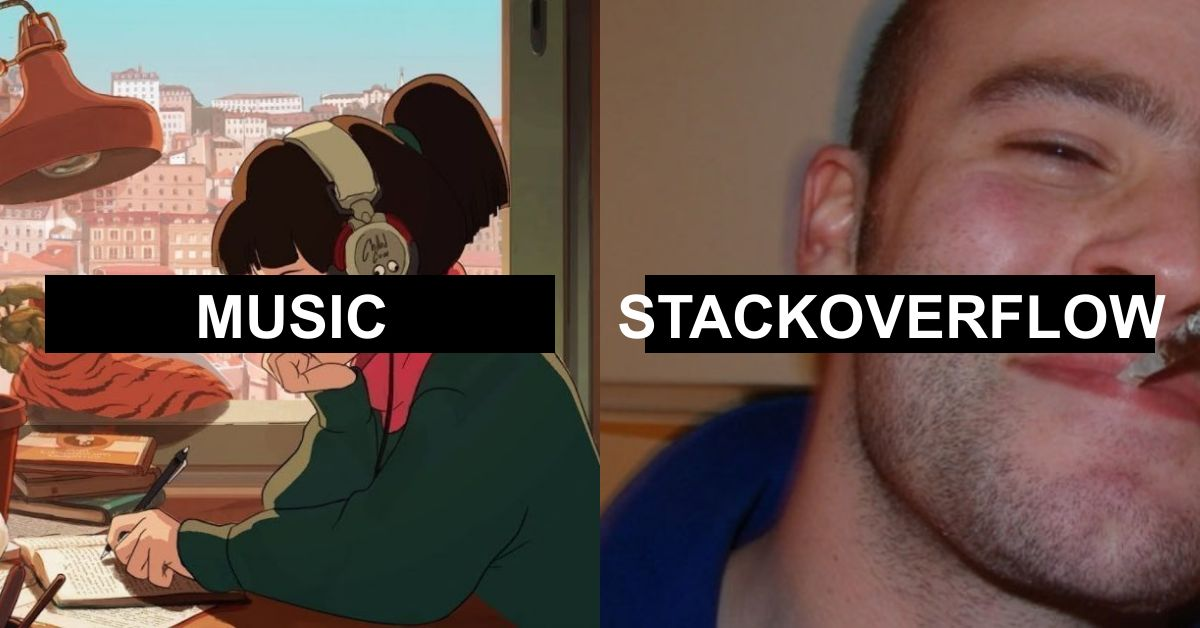
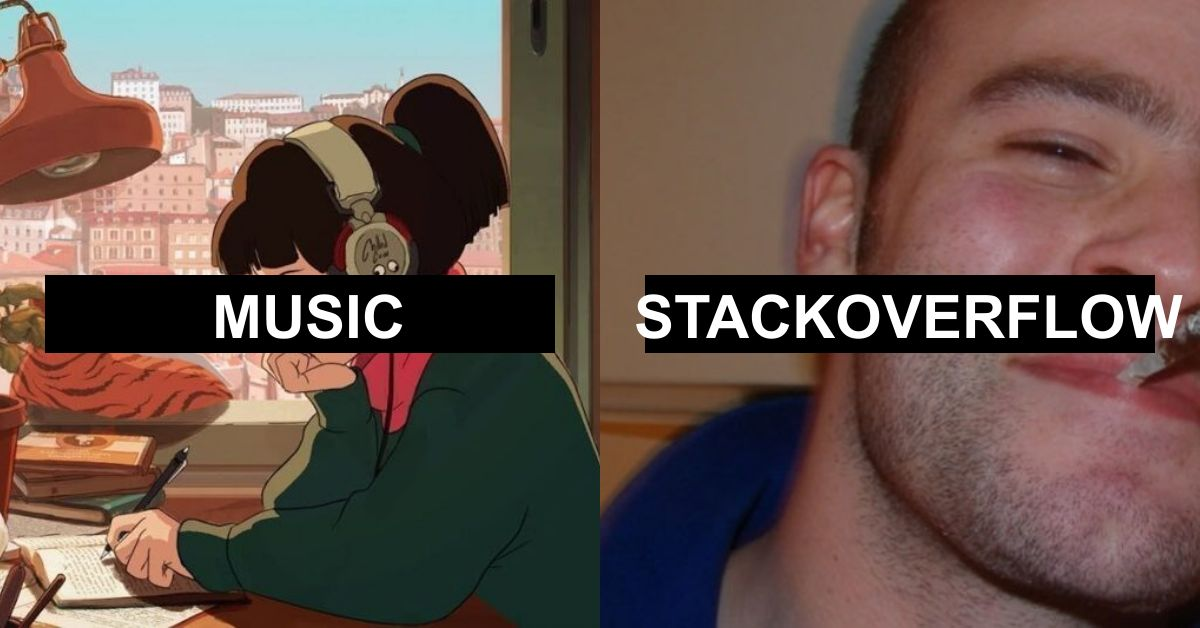
fix(preview-generator): simplified and typed code (+ small fixes)

Changed region(s): [[0.4933, 0.4538, 0.9867, 0.5446], [0.1542, 0.4538, 0.3392, 0.5446]]

diff --git a/preview-generator.ts b/preview-generator.ts
@@ -1,17 +1,18 @@
 import { Canvas, Image, loadImage } from 'canvas'
 import { createTextWithBackground, drawImageProp } from './generator-preview-utils/utils'
-import * as fs from 'fs'
 import { questions } from './apps/devchoices-next/public/assets/data/questions'
+import { Choice, QuestionInterface } from './libs/shared/interfaces/src'
+import { createWriteStream, existsSync } from 'fs'
 
 const width = 1200
 const height = 628
-const assetPath = 'apps/devchoices-next/public'
+const assetPath = `${__dirname}/apps/devchoices-next/public`
 
 // Checks for --override and if it has a value
 const override = Boolean(process.argv.indexOf('--override') > -1)
 
-const drawSide = async (side: 'left' | 'right', ctx: any, image: Image, question: any) => {
-  if (!question) return
+const drawSide = async (side: 'left' | 'right', ctx: any, image: Image, choice: Choice) => {
+  if (!choice) return
 
   const ratio = image.width / image.height
   const newWidth = width / 2
@@ -21,7 +22,7 @@ const drawSide = async (side: 'left' | 'right', ctx: any, image: Image, question
   ctx.drawImage(image, x, y, newWidth, newHeight)
   drawImageProp(ctx, image, x, 0, width / 2, height, 0.5, 0.5)
   createTextWithBackground(
-    side === 'left' ? question.choiceLeft.title.toUpperCase() : question.choiceRight.title.toUpperCase(),
+    choice.title.toUpperCase(),
     x,
     ctx,
     width,
@@ -29,40 +30,36 @@ const drawSide = async (side: 'left' | 'right', ctx: any, image: Image, question
   )
 }
 
-const renderPreviewBySlug = async (slug: string, override = false) => {
-  const question = questions.find((q) => q.slug === slug)
-  if (!question) return
+const renderPreview = async (question: QuestionInterface, override = false) => {
 
-  if (fs.existsSync(`${assetPath}/assets/img-previews/preview-${question.slug}.jpg`) && !override) {
+  if (!override && existsSync(`${assetPath}/assets/img-previews/preview-${question.slug}.jpg`)) {
     console.log(`Preview for ${question.slug} already exists`)
     return
   }
 
-  if (question.choiceLeft.img_path.indexOf('webp') > -1 || question.choiceRight.img_path.indexOf('webp') > -1) {
+  if (question.choiceLeft.img_path.endsWith('.webp') || question.choiceRight.img_path.endsWith('webp')) {
     console.log('Webp not supported')
     return
   }
 
-  const promiseImg1 = loadImage(assetPath + question.choiceLeft.img_path)
-  const promiseImg2 = loadImage(assetPath + question.choiceRight.img_path)
-  Promise.all([promiseImg1, promiseImg2]).then(async (images) => {
+  const leftImagePromise = loadImage(assetPath + question.choiceLeft.img_path)
+  const rightImagePromise = loadImage(assetPath + question.choiceRight.img_path)
+  Promise.all([leftImagePromise, rightImagePromise]).then(async ([ leftImage, rightImage ]) => {
     const canvas = new Canvas(width, height)
     const ctx = canvas.getContext('2d')
 
-    await drawSide('left', ctx, images[0], question)
-    await drawSide('right', ctx, images[1], question)
+    await drawSide('left', ctx, leftImage, question.choiceLeft)
+    await drawSide('right', ctx, rightImage, question.choiceRight)
 
-    const out = fs.createWriteStream(__dirname + `/${assetPath}/assets/img-previews/preview-${slug}.jpg`)
+    const out = createWriteStream(`${assetPath}/assets/img-previews/preview-${question.slug}.jpg`)
     const stream = canvas.createJPEGStream({
       quality: 0.8,
     })
     stream.pipe(out)
-    out.on('finish', () => console.log('The JPG preview-' + slug + '.jpg file was created.'))
+    out.on('finish', () => console.log(`The JPG preview-${question.slug}.jpg file was created.`))
   })
 }
 
-//renderPreviewBySlug('camelCase-or-snake_case', true).then(() => {})
-
-questions.forEach(async (question) => {
-  await renderPreviewBySlug(question.slug, override)
+questions.forEach((question) => {
+  renderPreview(question, override)
 })

diff --git a/generator-preview-utils/wrap-text-canvas.ts b/generator-preview-utils/wrap-text-canvas.ts
@@ -15,67 +15,41 @@ export const wrapText = function (
   lineHeight: number
 ) {
   // First, start by splitting all of our text into words, but splitting it into an array split by spaces
-  let words = text.split(' ')
+  let words = text.split(/\s+/)
   let line = '' // This will store the text of the current line
-  let testLine = '' // This will store the text when we add a word, to test if it's too long
-  let lineArray = [] // This is an array of lines, which the function will return
+  let lineArray: [string, number, number][] = [] // This is an array of lines, which the function will return
+                                                 // [text, x, y] 
 
   // Lets iterate over each word
-  for (var n = 0; n < words.length; n++) {
+  for (const word of words) {
     // Create a test line, and measure it..
-    testLine += `${words[n]} `
-    let metrics = ctx.measureText(testLine)
+    let metrics = ctx.measureText(line + ' ' + word)
     let testWidth = metrics.width
-    // If the width of this test line is more than the max width
-    if (testWidth > maxWidth && n > 0) {
+    // If the width of this line is more than the max width
+    if (testWidth > maxWidth && ctx.measureText(word).width <= maxWidth) {
       // Then the line is finished, push the current line into "lineArray"
       lineArray.push([line, x, 0])
-      // Increase the line height, so a new line is started
-      // Update line and test line to use this word as the first word on the next line
-      line = `${words[n]} `
-      testLine = `${words[n]} `
+      // Update line to use this word as the first word on the next line
+      line = word
     } else {
       // If the test line is still less than the max width, then add the word to the current line
-      line += `${words[n]} `
-    }
-    // If we never reach the full max width, then there is only one line.. so push it into the lineArray so we return something
-    if (n === words.length - 1) {
-      lineArray.push([line, x, 0])
+      line += ' ' + word
     }
   }
 
-  const heightText = lineArray.length * lineHeight
-  let firstY = maxHeight / 2 - heightText / 2 + lineHeight
-  let y = firstY
-  lineArray = []
-  words = text.split(' ')
-  line = '' // This will store the text of the current line
-  testLine = '' // This will store the text when we add a word, to test if it's too long
+  // Push the last words
+  lineArray.push([line, x, 0])
 
-  for (var n = 0; n < words.length; n++) {
-    // Create a test line, and measure it..
-    testLine += `${words[n]} `
-    let metrics = ctx.measureText(testLine)
-    let testWidth = metrics.width
-    // If the width of this test line is more than the max width
-    if (testWidth > maxWidth && n > 0) {
-      // Then the line is finished, push the current line into "lineArray"
-      lineArray.push([line, x, y])
-      // Increase the line height, so a new line is started
-      y += lineHeight
-      // Update line and test line to use this word as the first word on the next line
-      line = `${words[n]} `
-      testLine = `${words[n]} `
-    } else {
-      // If the test line is still less than the max width, then add the word to the current line
-      line += `${words[n]} `
-    }
-    // If we never reach the full max width, then there is only one line.. so push it into the lineArray so we return something
-    if (n === words.length - 1) {
-      lineArray.push([line, x, y])
-    }
+  const textHeight = lineArray.length * lineHeight
+  let firstY = maxHeight / 2 - textHeight / 2 + lineHeight
+  let y = firstY
+
+  for (const line of lineArray) {
+    line[0]
+    line[2] = y;
+    y += lineHeight;
   }
 
   // Return the line array
-  return { lineArray, heightText }
+  return { lineArray, textHeight }
 }

diff --git a/generator-preview-utils/utils.ts b/generator-preview-utils/utils.ts
@@ -1,33 +1,23 @@
 import { wrapText } from './wrap-text-canvas'
 
 export function drawImageProp(
-  ctx: any,
+  ctx: CanvasRenderingContext2D,
   img: any,
-  x: number,
-  y: number,
-  w: number,
-  h: number,
-  offsetX: number,
-  offsetY: number
+  x: number = 0,
+  y: number = 0,
+  w: number = ctx.canvas.width,
+  h: number = ctx.canvas.height,
+  offsetX: number = 0.5,
+  offsetY: number = 0.5
 ) {
-  if (arguments.length === 2) {
-    x = y = 0
-    w = ctx.canvas.width
-    h = ctx.canvas.height
-  }
-
-  // default offset is center
-  offsetX = typeof offsetX === 'number' ? offsetX : 0.5
-  offsetY = typeof offsetY === 'number' ? offsetY : 0.5
-
   // keep bounds [0.0, 1.0]
   if (offsetX < 0) offsetX = 0
   if (offsetY < 0) offsetY = 0
   if (offsetX > 1) offsetX = 1
   if (offsetY > 1) offsetY = 1
 
-  var iw = img.width,
-    ih = img.height,
+  let iw = img.width as number,
+    ih = img.height as number,
     r = Math.min(w / iw, h / ih),
     nw = iw * r, // new prop. width
     nh = ih * r, // new prop. height
@@ -60,26 +50,25 @@ export function drawImageProp(
   ctx.drawImage(img, cx, cy, cw, ch, x, y, w, h)
 }
 
-export const createTextWithBackground = (text: string, x: number, ctx: any, width: number, height: number) => {
+export function createTextWithBackground (text: string, x: number, ctx: any, width: number, height: number)  {
   // wrap a long text inside a canvas
   const fontSize = width / 20
   const paddingX = width / 20
   const maxWidth = width / 2 - paddingX * 2
+  
   ctx.font = `700 ${fontSize}px Arial`
-  ctx.fillStyle = 'white'
-  let wrappedText = wrapText(ctx, text, x + paddingX, maxWidth, height, fontSize * 0.8)
+  const wrappedText = wrapText(ctx, text, x + paddingX, maxWidth, height, fontSize * 0.8)
 
   ctx.fillStyle = 'black'
   const paddingBox = fontSize / 4
   ctx.fillRect(
     x + paddingX - paddingBox,
-    height / 2 - wrappedText.heightText / 2 - paddingBox,
+    (height - wrappedText.textHeight) / 2 - paddingBox,
     maxWidth + 2 * paddingBox,
-    wrappedText.heightText + 2 * paddingBox
+    wrappedText.textHeight + 2 * paddingBox
   )
 
   wrappedText.lineArray.forEach(function (item) {
-    ctx.font = `700 ${fontSize}px Arial`
     ctx.fillStyle = 'white'
     const measures = ctx.measureText(item[0])
     ctx.fillText(item[0], x + width / 4 - measures.width / 2, item[2])
